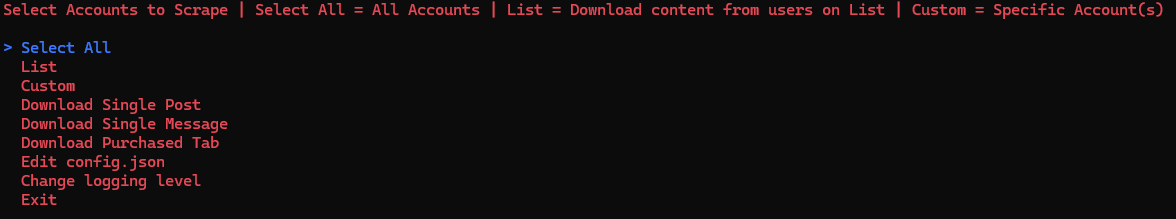
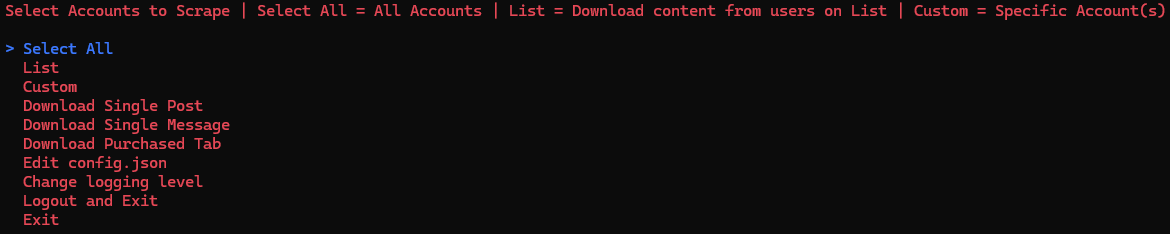
Update docs

diff --git a/OF DL/Program.cs b/OF DL/Program.cs
@@ -70,9 +70,9 @@ public class Program
         }
         catch (Exception e)
         {
-            AnsiConsole.MarkupLine($"\n[red]Authorization failed. Be sure to log into to OF using the new window that opened automatically.[/]");
-            AnsiConsole.MarkupLine($"[red]The window will close automatically when the authorization process is finished.[/]");
-            AnsiConsole.MarkupLine($"[red]If the problem persists, you may want to try generating the authorization file manually or use the browser extension which is documented here:[/]\n");
+            AnsiConsole.MarkupLine($"\n[red]Authentication failed. Be sure to log into to OF using the new window that opened automatically.[/]");
+            AnsiConsole.MarkupLine($"[red]The window will close automatically when the authentication process is finished.[/]");
+            AnsiConsole.MarkupLine($"[red]If the problem persists, you may want to try generating the auth.json file manually or use the browser extension which is documented here:[/]\n");
             AnsiConsole.MarkupLine($"[link]https://sim0n00ps.github.io/OF-DL/docs/config/auth#browser-extension[/]\n");
             AnsiConsole.MarkupLine($"[red]Press any key to exit.[/]");
             Log.Error(e, "auth invalid after attempt to get auth from browser");
@@ -82,9 +82,9 @@ public class Program
 
         if (auth == null)
         {
-            AnsiConsole.MarkupLine($"\n[red]Authorization failed. Be sure to log into to OF using the new window that opened automatically.[/]");
-            AnsiConsole.MarkupLine($"[red]The window will close automatically when the authorization process is finished.[/]");
-            AnsiConsole.MarkupLine($"[red]If the problem persists, you may want to try generating the authorization file manually or use the browser extension which is documented here:[/]\n");
+            AnsiConsole.MarkupLine($"\n[red]Authentication failed. Be sure to log into to OF using the new window that opened automatically.[/]");
+            AnsiConsole.MarkupLine($"[red]The window will close automatically when the authentication process is finished.[/]");
+            AnsiConsole.MarkupLine($"[red]If the problem persists, you may want to try generating the auth.json file manually or use the browser extension which is documented here:[/]\n");
             AnsiConsole.MarkupLine($"[link]https://sim0n00ps.github.io/OF-DL/docs/config/auth#browser-extension[/]\n");
             AnsiConsole.MarkupLine($"[red]Press any key to exit.[/]");
             Log.Error("auth invalid after attempt to get auth from browser");
@@ -434,7 +434,8 @@ public class Program
             if (validate?.name == null && validate?.username == null)
             {
                 Log.Error("Auth failed");
-                Console.ReadKey();
+                AnsiConsole.MarkupLine($"\n[red]Auth failed. Please try again or use other authentication methods detailed here:[/]\n");
+                AnsiConsole.MarkupLine($"[link]https://sim0n00ps.github.io/OF-DL/docs/config/auth[/]\n");                Console.ReadKey();
                 return;
             }
 

diff --git a/docs/docs/running-the-program.md b/docs/docs/running-the-program.md
@@ -8,11 +8,12 @@ Once you are happy you have filled everything in [auth.json](/docs/config/auth) 
 
 ![CLI welcome banner](/img/welcome_banner.png)
 
-It should locate `auth.json`, `config.json`, `rules.json` and FFmpeg successfully. If anything doesn't get located
+It should locate `config.json`, `rules.json` and FFmpeg successfully. If anything doesn't get located
 successfully, then make sure the files exist or the path is correct.
 
-If the auth info is correct then you should see a message in green text `Logged In successfully as {Your Username} {Your User Id}`.
-However, if the `auth.json` file has been filled out but cannot log in successfully with the credentials provided,
+OF-DL will open a new window, if needed, to allow you to log into your OnlyFans account. The window will automatically close once
+the authorization process has finished. If the auth info is correct then you should see a message in green text
+`Logged In successfully as {Your Username} {Your User Id}`. However, if the authorization has failed,
 then a message in red text will appear `Auth failed, please check the values in auth.json are correct, press any key to exit.`
 This means you need to go back and fill in the `auth.json` file again, this will usually indicate that your `user-agent` has changed or you need to re-copy your `sess` value.
 
@@ -38,6 +39,8 @@ The `Download Purchased Tab` option will download all the media from the purchas
 The `Edit config.json` option allows you to change the config from within the program.
 
 The `Change logging level` option allows you to change the logging level that the program uses when writing logs to files in the `logs` folder.
+
+The `Logout and Exit` option allows you to remove your authentication from OF-DL. This is useful if you use multiple OnlyFans accounts.
 
 After you have made your selection the content should start downloading. Content is downloaded in this order:
 

diff --git a/docs/docs/installation/docker.md b/docs/docs/installation/docker.md
@@ -18,11 +18,11 @@ To run OF-DL in a docker container, follow the folling steps:
         Adjust `$HOME/ofdl` as desired (including in the commands below) if you want the files stored elsewhere.
 4. Run the following command to start the docker container:
     ```bash
-    docker run --rm -it -v $HOME/ofdl/data/:/data -v $HOME/ofdl/config/:/config ghcr.io/sim0n00ps/of-dl:latest
+    docker run --rm -it -v $HOME/ofdl/data/:/data -v $HOME/ofdl/config/:/config -p 3000:8080 ghcr.io/sim0n00ps/of-dl:latest
     ```
-    If `auth.json`, `config.json`, and/or `rules.json` don't exist in the `config` directory, files with default values will be created when you run the docker container.
+    If `config.json` and/or `rules.json` don't exist in the `config` directory, files with default values will be created when you run the docker container.
     If you have your own Widevine keys, those files should be placed under `$HOME/ofdl/config/cdm/devices/chrome_1610/`.
-    Follow the instructions on the [Authentication](/docs/config/auth) page to fill out the `auth.json` file.
+5. OF-DL to be authenticated with your OnlyFans account. When prompted, open [http://localhost:3000](http://localhost:3000) in a web browser to log in to your OnlyFans account.
 
 ## Updating OF-DL
 

diff --git a/docs/docs/config/auth.md b/docs/docs/config/auth.md
@@ -4,13 +4,27 @@ sidebar_position: 1
 
 # Authentication
 
+## Current Method (versions >= 1.8.2)
+
+OF DL allows you to log in to your OnlyFans account directly. This simplifies the authentication process significantly.
+When prompted by the application, log into your OnlyFans account. Do not close the opened window, tab, or navigate away to another webpage.
+The new window will close automatically when the authentication process has finished.
+
+:::info
+
+If you are using docker, follow the special [authentication instructions documented](/docs/installation/docker) to authenticate OF-DL
+
+:::
+
+## Legacy Methods
+
 After you have downloaded the latest release the first thing to do is to fill out the `auth.json` file.
 
-## Browser Extension
+### Browser Extension
 
 You can use a browser extension to help get the required info for the `auth.json` file. The extension supports Google Chrome and Firefox and can be found [here](https://github.com/whimsical-c4lic0/OF-DL-Auth-Helper/) (https://github.com/whimsical-c4lic0/OF-DL-Auth-Helper/).
 
-## Manual Method
+### Manual Method
 
 Open `auth.json` in a text editor of your choice. The default windows notepad is sufficient. When you open `auth.json` for the first time you should see something like this:
 

diff --git a/docs/docs/config/configuration.md b/docs/docs/config/configuration.md
@@ -376,6 +376,16 @@ Description: If set to `true`, the program will run without any input from the u
 (unless [NonInteractiveModeListName](#noninteractivemodelistname) or [NonInteractiveModePurchasedTab](#noninteractivemodepurchasedtab) are configured).
 If set to `false`, the default behaviour will apply, and you will be able to choose an option from the menu.
 
+:::warning
+
+If NonInteractiveMode is enabled, you will be unable to authenticate OF-DL using the standard authentication method.
+Before you can run OF-DL in NonInteractiveMode, you must either
+
+1. Generate an auth.json file by running OF-DL with NonInteractiveMode disabled and authenticating OF-DL using the standard method **OR**
+2. Generate an auth.json file by using a [legacy authentication method](/docs/config/auth#legacy-methods)
+
+:::
+
 ## NonInteractiveModeListName
 
 Type: `string`

diff --git a/docs/docs/installation/windows.md b/docs/docs/installation/windows.md
@@ -20,8 +20,7 @@ you will need to specify the path to `ffmpeg.exe` in the config file (see the `F
 3. Your folder should contain a folder named `cdm` as well as the following files:
    - OF DL.exe
    - config.json
-   - auth.json
    - rules.json
    - e_sqlite3.dll
    - ffmpeg.exe
-4. Once you have done this, please head to the [Authentication](/docs/config/auth) page to fill out the `auth.json` file.
+4. Once you have done this, run OF DL.exe

diff --git a/docs/docs/installation/linux.md b/docs/docs/installation/linux.md
@@ -39,7 +39,7 @@ cd 'OF DL/bin/Release/net8.0'
 ```
 
 - Download the windows release as described on [here](/docs/installation/windows#installation).
-- Add the `auth.json`, `config.json`, and `rules.json` files as well as the `cdm` folder to the `OF DL/bin/Release/net8.0` folder.
+- Add the `config.json` and `rules.json` files as well as the `cdm` folder to the `OF DL/bin/Release/net8.0` folder.
 
 - Run the application
 
